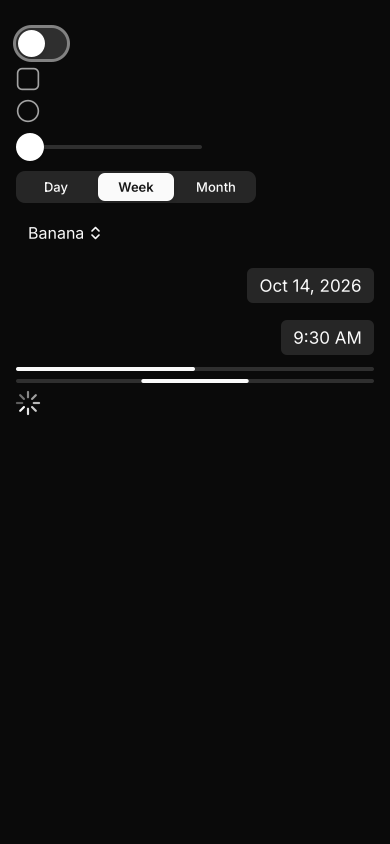
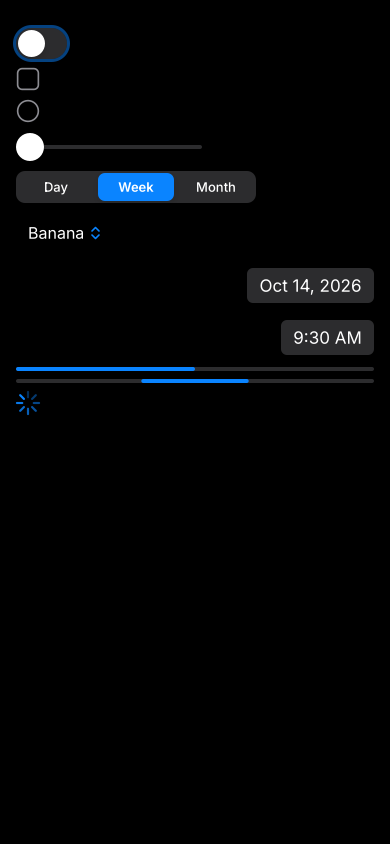
Linux: controls follow the 24 theme tokens
The switch's on state is success (the iOS system green) instead of a
hard-coded green, focus rings use ring, switch, slider and progress tracks
use secondary, and segment separators use border. Screenshots re-shot with
the iOS system-color defaults.

Changed region(s): [[0.0308, 0.4313, 0.6462, 0.4929], [0.2462, 0.1848, 0.4615, 0.2464], [0.0308, 0.0308, 0.1846, 0.0924]]

diff --git a/platforms/linux/src/components/control.rs b/platforms/linux/src/components/control.rs
@@ -18,7 +18,7 @@ use gtk::{gdk, glib, graphene, gsk, pango};
 
 use native_shell_core::host::WidthMode;
 use native_shell_core::protocol::{event_mask, EventType, PropValue};
-use native_shell_core::theme::{Appearance, Theme};
+use native_shell_core::theme::Theme;
 
 use crate::component::{NodeCx, Shared};
 use crate::node_view::{rgba, rounded_rect};
@@ -243,13 +243,14 @@ impl Link {
             .unwrap_or(0xFF00_0000)
     }
 
-    pub fn dark(&self) -> bool {
-        self.shared.upgrade().is_some_and(|s| s.theme.borrow().appearance == Appearance::Dark)
-    }
-
     /// The accent: the node's `TintColor`, else the theme's `primary`.
     pub fn accent(&self) -> u32 {
         self.tint.get().unwrap_or_else(|| self.color("primary"))
+    }
+
+    /// The keyboard focus ring: the theme's `ring`, or a node tint at half strength.
+    pub fn ring(&self) -> u32 {
+        self.tint.get().map_or_else(|| self.color("ring"), |t| fade(t, 0.5))
     }
 }
 
@@ -315,11 +316,11 @@ pub fn fill(snapshot: &gtk::Snapshot, shape: &gsk::RoundedRect, color: u32) {
     snapshot.pop();
 }
 
-/// The keyboard focus ring: a soft accent halo just outside `shape`.
-pub fn focus_ring(snapshot: &gtk::Snapshot, shape: &gsk::RoundedRect, accent: u32) {
+/// The keyboard focus ring: a halo of `color` (`Link::ring`) just outside `shape`.
+pub fn focus_ring(snapshot: &gtk::Snapshot, shape: &gsk::RoundedRect, color: u32) {
     let mut outer = *shape;
     outer.shrink(-3.0, -3.0, -3.0, -3.0);
-    let c = rgba(fade(accent, 0.5));
+    let c = rgba(color);
     snapshot.append_border(&outer, &[3.0; 4], &[c, c, c, c]);
 }
 

diff --git a/platforms/linux/src/components/toggle.rs b/platforms/linux/src/components/toggle.rs
@@ -165,9 +165,9 @@ fn paint_switch(c: &Canvas, snapshot: &gtk::Snapshot, link: &Link, s: &SwitchSta
     let x = (c.width() as f32 - w) / 2.0;
     let y = (c.height() as f32 - h) / 2.0;
     let pos = s.pos.get() as f32;
-    // The on state keeps the system green (the iOS convention) unless the node sets a tint.
-    let on = link.tint.get().unwrap_or(if link.dark() { 0xFF30D158 } else { 0xFF34C759 });
-    let off = link.color("input");
+    // The on state is green (`success`, the iOS system green) unless the node sets a tint.
+    let on = link.tint.get().unwrap_or_else(|| link.color("success"));
+    let off = link.color("secondary");
     let dim = !c.is_sensitive();
     if dim {
         snapshot.push_opacity(control::DISABLED_ALPHA as f64);
@@ -184,7 +184,7 @@ fn paint_switch(c: &Canvas, snapshot: &gtk::Snapshot, link: &Link, s: &SwitchSta
     control::knob_shadow(snapshot, &knob);
     control::fill(snapshot, &knob, 0xFFFFFFFF);
     if c.shows_focus() {
-        control::focus_ring(snapshot, &track, link.accent());
+        control::focus_ring(snapshot, &track, link.ring());
     }
     if dim {
         snapshot.pop();
@@ -299,7 +299,7 @@ fn paint_check(c: &Canvas, snapshot: &gtk::Snapshot, link: &Link, s: &CheckState
     };
     snapshot.pop();
     if c.shows_focus() {
-        control::focus_ring(snapshot, &shape, tint);
+        control::focus_ring(snapshot, &shape, link.ring());
     }
 }
 

diff --git a/platforms/linux/tests/controls.rs b/platforms/linux/tests/controls.rs
@@ -249,8 +249,8 @@ fn progress_and_spinner_draw() {
     let bar = f.bounds(&f.expect("bar"));
     let y = (bar.y() + bar.height() / 2.0) as i32;
     // Half filled with the theme's primary, the rest is the track.
-    assert_eq!(f.pixel((bar.x() + 20.0) as i32, y), 0xff171717);
-    assert_ne!(f.pixel((bar.x() + bar.width() - 20.0) as i32, y), 0xff171717);
+    assert_eq!(f.pixel((bar.x() + 20.0) as i32, y), 0xff007aff);
+    assert_ne!(f.pixel((bar.x() + bar.width() - 20.0) as i32, y), 0xff007aff);
     // A new primary redraws the chrome drawn from it.
     f.tap("brand");
     assert_eq!(f.pixel((bar.x() + 20.0) as i32, y), 0xffff0000);
@@ -309,7 +309,7 @@ fn settings_example() {
     let list = find(popover.upcast_ref(), |w| w.is::<gtk::ListBox>()).and_downcast::<gtk::ListBox>().expect("menu list");
     list.emit_by_name::<()>("row-activated", &[&list.row_at_index(2).expect("Dark")]);
     f.settle();
-    assert_eq!(f.pixel(4, 200), 0xff0a0a0a, "the dark background");
+    assert_eq!(f.pixel(4, 200), 0xff000000, "the dark background");
 }
 
 /// A components example page as the program's root view.

diff --git a/platforms/linux/src/components/slider.rs b/platforms/linux/src/components/slider.rs
@@ -164,14 +164,14 @@ fn paint(c: &Canvas, snapshot: &gtk::Snapshot, l: &Link, s: &State) {
         snapshot.push_opacity(control::DISABLED_ALPHA as f64);
     }
     let track = control::round(control::rect(start, cy - TRACK / 2.0, len, TRACK), TRACK / 2.0);
-    control::fill(snapshot, &track, l.color("input"));
+    control::fill(snapshot, &track, l.color("secondary"));
     let filled = control::round(control::rect(start, cy - TRACK / 2.0, x - start, TRACK), TRACK / 2.0);
     control::fill(snapshot, &filled, l.accent());
     let thumb = control::round(control::rect(x - THUMB / 2.0, cy - THUMB / 2.0, THUMB, THUMB), THUMB / 2.0);
     control::knob_shadow(snapshot, &thumb);
     control::fill(snapshot, &thumb, 0xFFFFFFFF);
     if c.shows_focus() {
-        control::focus_ring(snapshot, &thumb, l.accent());
+        control::focus_ring(snapshot, &thumb, l.ring());
     }
     if dim {
         snapshot.pop();

diff --git a/platforms/linux/src/components/segmented.rs b/platforms/linux/src/components/segmented.rs
@@ -171,7 +171,7 @@ fn paint_track(c: &Canvas, snapshot: &gtk::Snapshot, l: &Link, s: &State) {
         let seg_w = w / n as f32;
         let thumb = s.thumb.get() as f32;
         // Hairlines between segments the thumb is not next to.
-        let sep = control::fade(l.color("muted_foreground"), 0.3);
+        let sep = l.color("border");
         for k in 1..n {
             if (k as f32 - 0.5 - thumb).abs() > 1.0 {
                 let x = (seg_w * k as f32).round() - 0.5;
@@ -209,7 +209,7 @@ fn paint_segment(c: &Canvas, snapshot: &gtk::Snapshot, l: &Link, s: &State, i: u
     control::draw_text(snapshot, &layout, 6.0, (h - th) / 2.0);
     if c.shows_focus() {
         let shape = control::round(control::rect(INSET, INSET, w - 2.0 * INSET, h - 2.0 * INSET), RADIUS - INSET);
-        control::focus_ring(snapshot, &shape, l.accent());
+        control::focus_ring(snapshot, &shape, l.ring());
     }
 }
 

diff --git a/platforms/linux/src/components/progress.rs b/platforms/linux/src/components/progress.rs
@@ -90,7 +90,7 @@ fn paint_bar(c: &Canvas, snapshot: &gtk::Snapshot, l: &Link, value: f64, indeter
     let bar = BAR.min(h);
     let y = (h - bar) / 2.0;
     let track = control::round(control::rect(0.0, y, w, bar), bar / 2.0);
-    control::fill(snapshot, &track, l.color("input"));
+    control::fill(snapshot, &track, l.color("secondary"));
     let (start, len) = if indeterminate {
         // A third of the track sweeps across once a second and a half; held
         // still in the middle when animations are off.

diff --git a/platforms/linux/src/components/select.rs b/platforms/linux/src/components/select.rs
@@ -112,7 +112,7 @@ fn paint(c: &Canvas, snapshot: &gtk::Snapshot, l: &Link, s: &State) {
     control::stroke(snapshot, &[(x + 1.0, y + ch - 5.0), (x + cw / 2.0, y + ch - 1.5), (x + cw - 1.0, y + ch - 5.0)], 1.6, accent);
     snapshot.pop();
     if c.shows_focus() {
-        control::focus_ring(snapshot, &control::round(control::rect(0.0, 0.0, w, h), 8.0), accent);
+        control::focus_ring(snapshot, &control::round(control::rect(0.0, 0.0, w, h), 8.0), l.ring());
     }
 }
 

diff --git a/platforms/linux/src/components/date_picker.rs b/platforms/linux/src/components/date_picker.rs
@@ -268,7 +268,7 @@ fn paint_pill(c: &Canvas, snapshot: &gtk::Snapshot, l: &Link, s: &State, i: usiz
     control::draw_text(snapshot, &layout, (w - tw) / 2.0, (h - th) / 2.0);
     snapshot.pop();
     if c.shows_focus() {
-        control::focus_ring(snapshot, &shape, l.accent());
+        control::focus_ring(snapshot, &shape, l.ring());
     }
 }
 
